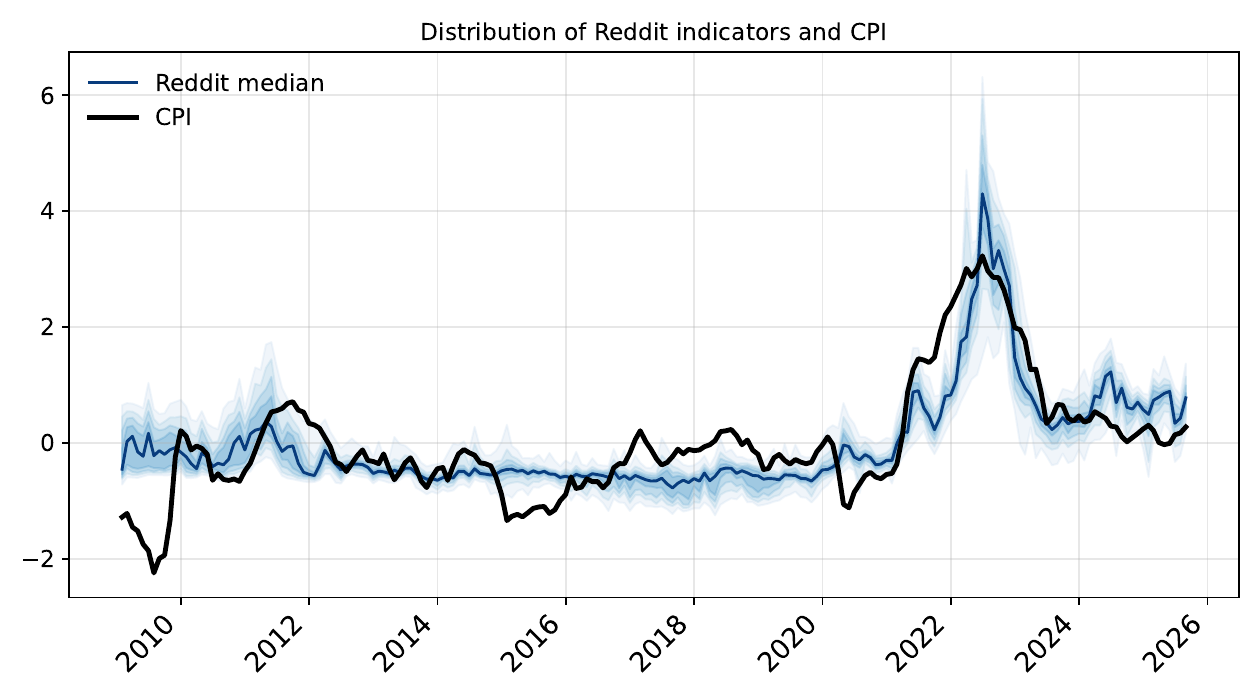
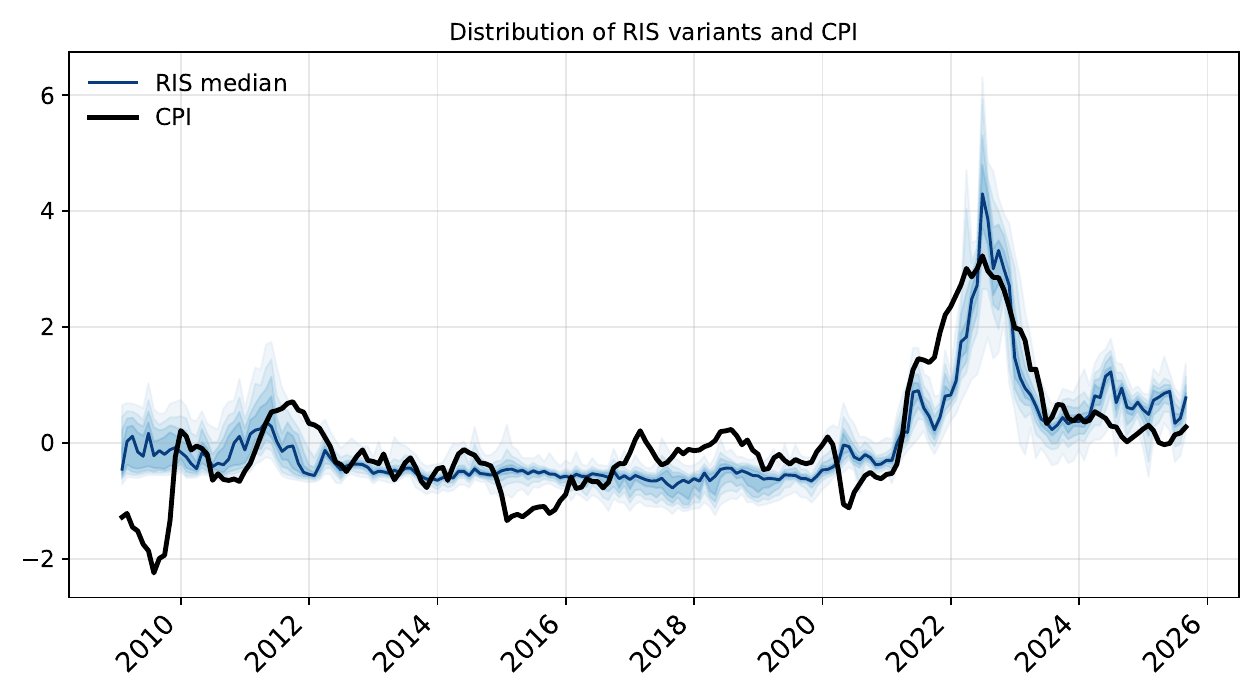
Fig. 4: RIS labels

Changed region(s): [[0.3405, 0.03, 0.7119, 0.06], [0.1238, 0.09, 0.2476, 0.15]]

diff --git a/README.md b/README.md
@@ -19,8 +19,8 @@ enter an AR-X(1) forecasting model.
 Indicators chart is shown below:
 
 <p align="center">
-  <img src="images/descriptive_chart_CPIAUCSL.png" width="49%" alt="Reddit indicators and CPI">
-  <img src="images/descriptive_chart_PCEPILFE.png" width="49%" alt="Reddit indicators and core PCE">
+  <img src="images/descriptive_chart_CPIAUCSL.png" width="49%" alt="RIS variants and CPI">
+  <img src="images/descriptive_chart_PCEPILFE.png" width="49%" alt="RIS variants and core PCE">
 </p>
 
 Everything runs on the aggregated data shipped in `data/`. Reddit conversations
